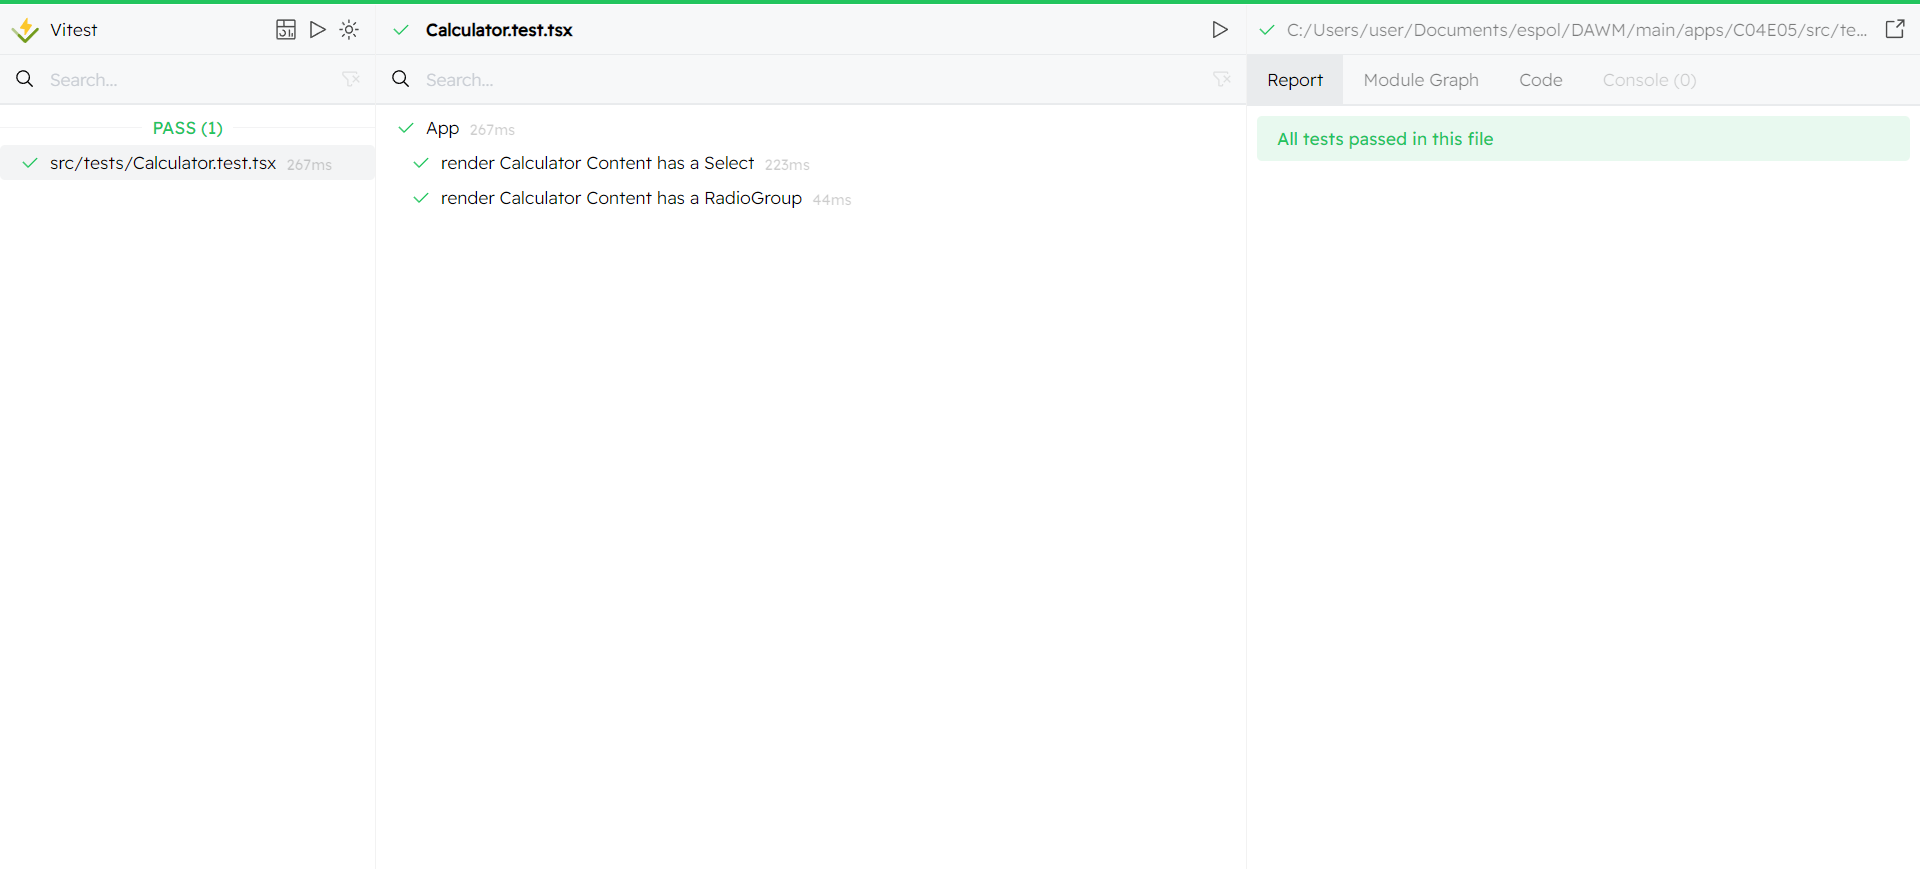
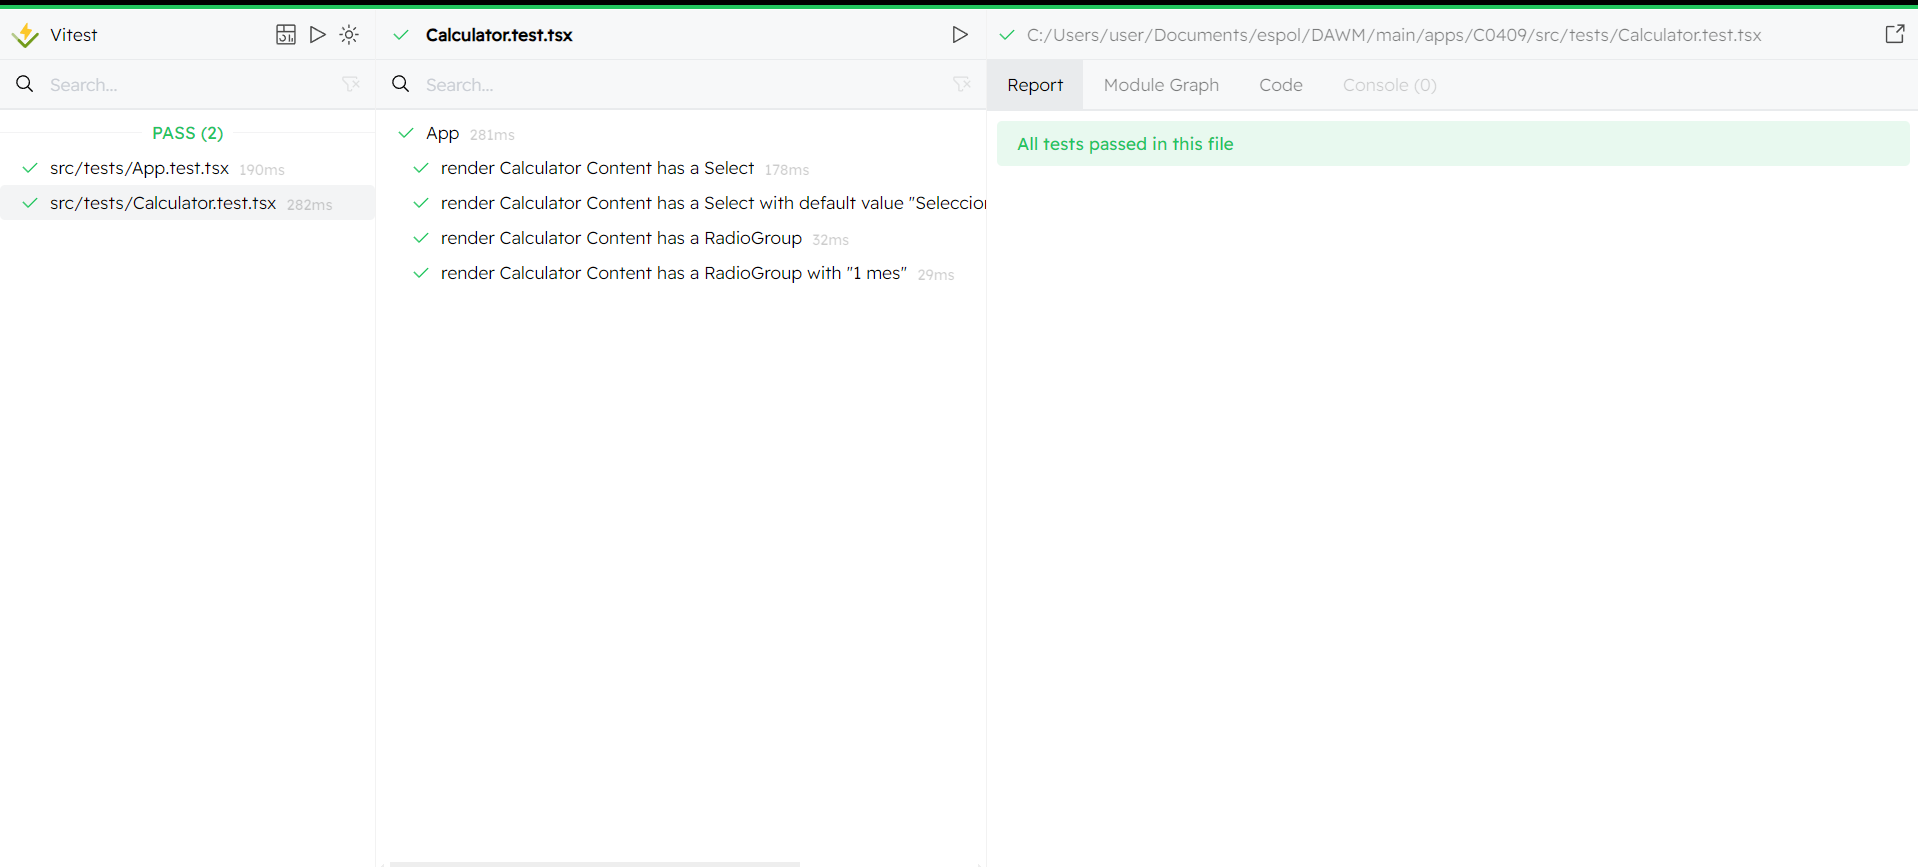
C04E08

diff --git a/Capítulo04/ejercicio08/tests/Calculator.test.tsx b/Capítulo04/ejercicio08/tests/Calculator.test.tsx
@@ -14,11 +14,27 @@ describe('App', () => {
         expect(selectOne).toBeInTheDocument();  
     })
 
+    it('render Calculator Content has a Select with default value "Seleccione un tipo de promoción"', () => {
+        render(<Calculator />)
+        
+        const selectOne = screen.getByRole("combobox");
+        const dropdownOptions = screen.getByText("Seleccione un tipo de promoción")
+        expect(selectOne.children[0].textContent).toBe(dropdownOptions.textContent)
+    })
+
     it('render Calculator Content has a RadioGroup', () => {
         render(<Calculator />)
         
         const selectOne = screen.getByRole("radiogroup");
         expect(selectOne).toBeInTheDocument();  
+    })
+
+    it('render Calculator Content has a RadioGroup with "1 mes"', () => {
+        render(<Calculator />)
+        
+        const selectOne = screen.getByRole("radiogroup")
+        const radioOptions = screen.getByText("1 mes")
+        expect(selectOne.children[0].textContent).toBe(radioOptions.textContent)
     })
     
 })

diff --git a/Capítulo04/ejercicio08/tests/App.test.tsx b/Capítulo04/ejercicio08/tests/App.test.tsx
@@ -1,0 +1,13 @@
+import '@testing-library/jest-dom/vitest';
+import { afterEach, describe, it } from 'vitest'
+import { cleanup, render } from '@testing-library/react'
+import App from '../App'
+
+describe('App', () => {
+
+    afterEach(cleanup);
+
+    it('render App', () => {
+        render(<App />)
+    })
+})
